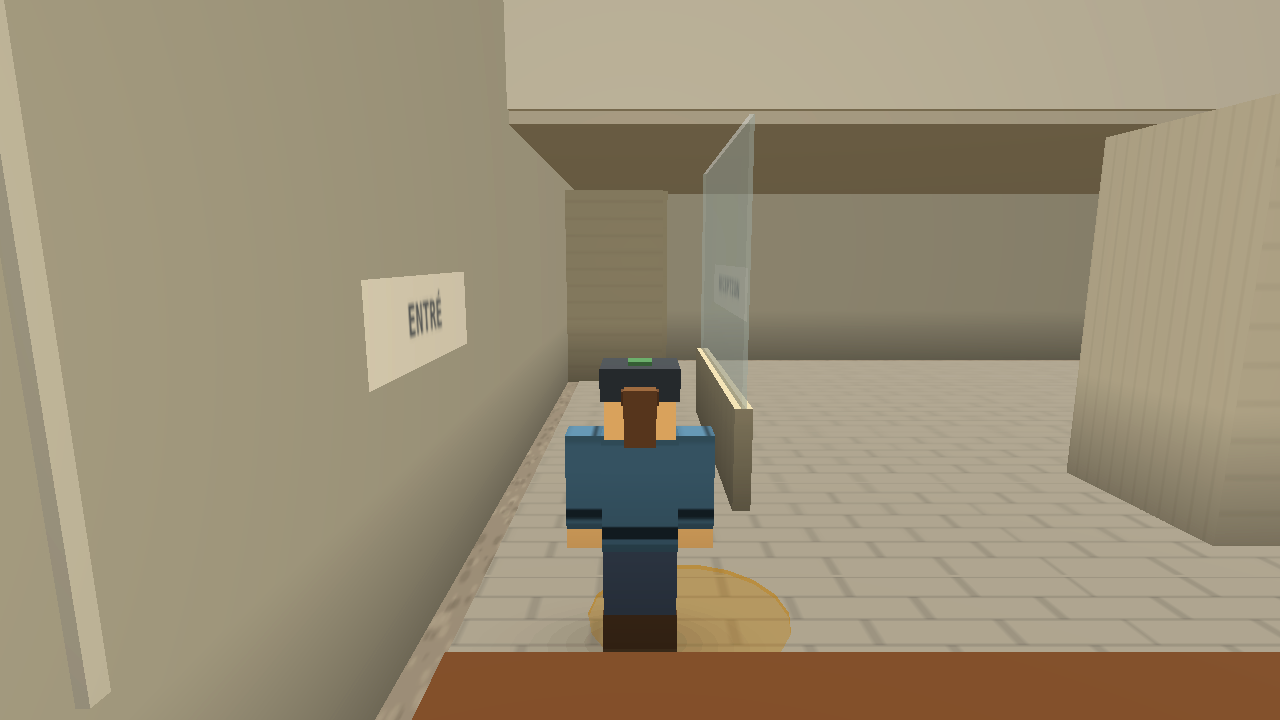
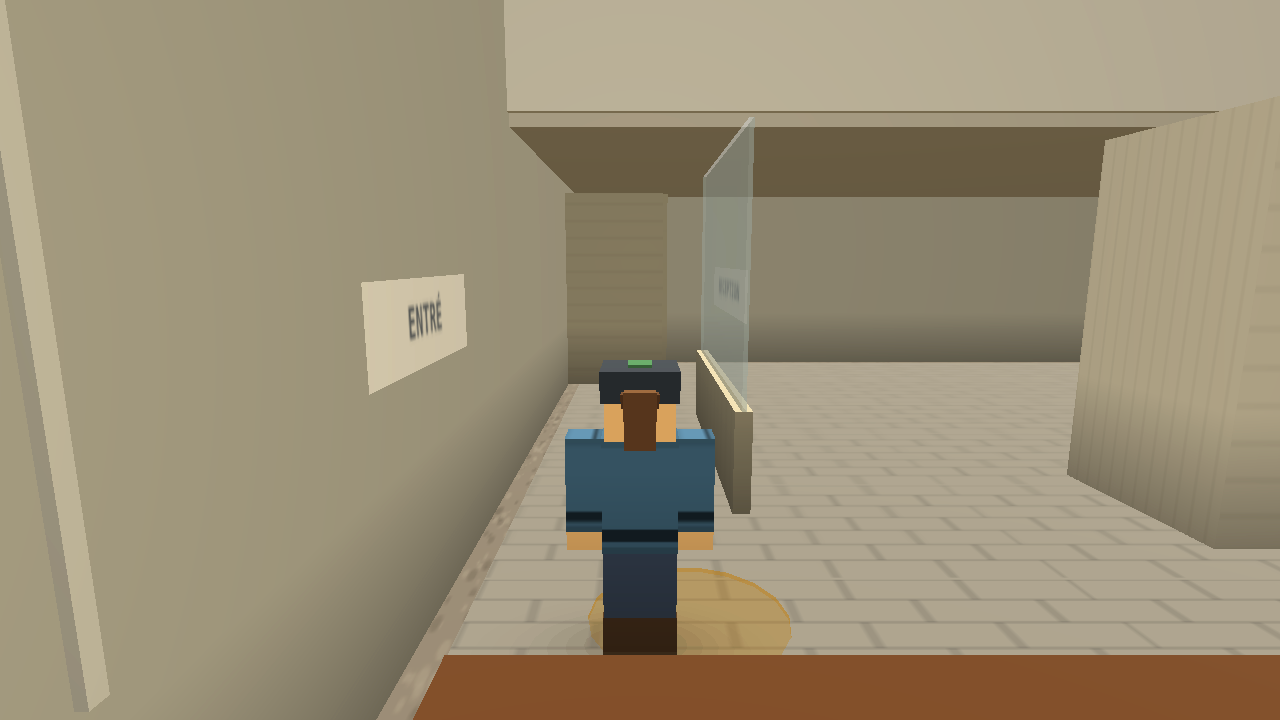
Visuell grind: incheckat reviewpaket renderat från 7a95f0a (med runda 4-verdikten)
Claude-Session: https://claude.ai/code/session_01RBDjv5xAUC4NuuvYQvQjGc

diff --git a/docs/visual-gate/pack/index.html b/docs/visual-gate/pack/index.html
@@ -1,7 +1,7 @@
-<!doctype html><meta charset="utf-8"><title>UBRF screenshot-pack 432ffcc</title>
+<!doctype html><meta charset="utf-8"><title>UBRF screenshot-pack 7a95f0a</title>
 <style>body{font:14px system-ui;margin:1.5rem;max-width:1400px}section{border-top:1px solid #ccc;padding:1rem 0}.par{display:grid;grid-template-columns:1fr 1fr;gap:1rem}img{max-width:100%;border:1px solid #999}figure{margin:0 0 .5rem}figcaption,.meta{font-size:12px;color:#444}table{margin-top:.5rem;border-collapse:collapse}th,td{text-align:left;padding:.2rem .6rem;vertical-align:top;border:1px solid #ddd}.gap{color:#a00}code{font-size:12px}</style>
 <h1>UBRF — Visual Fidelity Gate, screenshot-pack</h1>
-<p>Head <code>432ffcc5b1b7649d3f0d4a6e2e4f0d382128a910</code> · renderad 2026-09-04T06:46:40.500Z · 13 kameror · figuren dold i 0.</p>
+<p>Head <code>7a95f0a8cf15b2c17dcf3267739114f27423b205</code> · renderad 2026-09-04T06:58:49.822Z · 13 kameror · figuren dold i 0.</p>
 <p><b>Statuskedja:</b> IMPLEMENTED → AUTOMATED_GREEN → VISUAL_PACK_READY → CHATGPT_VISUAL_PASS → READY_FOR_PRODUCT_ACCEPTANCE → PRODUCT_ACCEPTED. Det här paketet är <b>VISUAL_PACK_READY</b> som mest. Ingen automation sätter en visuell status; grön CI är inte visual fidelity. Se docs/VISUAL-FIDELITY-GATE.md.</p>
 <nav><a href="#STALL-ANKOMST">STALL-ANKOMST</a> · <a href="#STALL-ENTRE">STALL-ENTRE</a> · <a href="#STALL-UPPEHALL">STALL-UPPEHALL</a> · <a href="#STALL-TEORISAL">STALL-TEORISAL</a> · <a href="#STALL-SADELKAMMARE">STALL-SADELKAMMARE</a> · <a href="#STALL-GANG-A">STALL-GANG-A</a> · <a href="#HASTPASSAGE">HASTPASSAGE</a> · <a href="#RIDHUS-ENTRE">RIDHUS-ENTRE</a> · <a href="#RIDHUS-SKAPKORRIDOR">RIDHUS-SKAPKORRIDOR</a> · <a href="#ARENA-A">ARENA-A</a> · <a href="#ARENA-C">ARENA-C</a> · <a href="#LAKTARE">LAKTARE</a> · <a href="#C-BLOCK-OVRE">C-BLOCK-OVRE</a></nav>
 <section id="STALL-ANKOMST">
@@ -9,12 +9,12 @@
 <p>Grusplanen norr om stallet, samma ansats som spelaren kommer från: blicken söderut mot klubbgaveln med förstukvisten och entrédörren</p>
 <div class="par">
   <div><h3>Referens</h3><figure class="txt"><figcaption>references/buildings/stall/stall-fasad-04.jpg</figcaption></figure><figure class="txt"><figcaption>references/buildings/stall/stall-entre-01.jpg</figcaption></figure><figure class="txt"><figcaption>references/buildings/stall/stall-entre-03.jpg</figcaption></figure><figure class="txt"><figcaption>references/buildings/stall/stall-entre-06.jpg</figcaption></figure><figure class="txt"><figcaption>references/buildings/stall/stall-entre-15-dorren.jpg</figcaption></figure><figure class="txt"><figcaption>references/buildings/stall/stall-entre-16-runda-fonstren.jpg</figcaption></figure></div>
-  <div><h3>Implementation @ <code>432ffcc</code></h3><img src="STALL-ANKOMST.png" alt="">
+  <div><h3>Implementation @ <code>7a95f0a</code></h3><img src="STALL-ANKOMST.png" alt="">
     <p class="meta">spelare [161.6,131,0] · kamera [160.1,1.7,132.5] · tonade väggar 0 · siktprov: <b>synlig</b></p></div>
 </div>
-<table><tr><th>Mismatch-status (ChatGPT)</th><td><b>EJ_GRANSKAD</b></td></tr>
+<table><tr><th>Mismatch-status (ChatGPT)</th><td><b>CHATGPT_VISUAL_PASS</b> på <code>588359194009f0722244830577d48a4201898f28</code> av ChatGPT senior visual review 2026-09-04 06:57 (runda 4)</td></tr>
 <tr><th>Ska synas (ramkontrakt)</th><td>Verandans sadeltak (röd gavelspets, vita vindskivor) på vita stolpar, det vita ribbräcket, den ockragula entrédörren med solfjäderfönster och vit karm rakt fram, ett runt fönster på var sida, lampan över dörren, spiraltrappan och balkongen till vänster. Det är den dörr interaktionen leder in genom (ankaret stall_entre_samma_dorr; innerpunkten ut_n vid samma dörr)</td></tr>
-<tr><th>Mismatch</th><td>—</td></tr>
+<tr><th>Mismatch</th><td>PASS: verandan med sadeltak, vita stolpar/ribbräcke, ockragul dörr, runda fönster, lampa, spiraltrappa/balkong läser som källserien; stall_entre_samma_dorr bevisar samma dörr inne/ute. Dörrdetaljernas förenkling är polish, inte grind.</td></tr>
 <tr><th>REFERENCE GAP</th><td>—</td></tr></table>
 </section>
 <section id="STALL-ENTRE">
@@ -22,12 +22,12 @@
 <p>Inne i uppehållsrummets östdel i ögonhöjd, blicken norrut mot den låsta fasadens entrédörr mitt på gaveln</p>
 <div class="par">
   <div><h3>Referens</h3><figure class="txt"><figcaption>references/buildings/stall/stall-entre-15-dorren.jpg</figcaption></figure><figure class="txt"><figcaption>references/buildings/stall/stall-entre-16-runda-fonstren.jpg</figcaption></figure></div>
-  <div><h3>Implementation @ <code>432ffcc</code></h3><img src="STALL-ENTRE.png" alt="">
+  <div><h3>Implementation @ <code>7a95f0a</code></h3><img src="STALL-ENTRE.png" alt="">
     <p class="meta">spelare [8.3,66.95,0] · kamera [10.1,1.7,64.55] · tonade väggar 1 · siktprov: <b>synlig</b></p></div>
 </div>
-<table><tr><th>Mismatch-status (ChatGPT)</th><td><b>MISMATCH</b> på <code>dd1902f3cc79d5aff8953af54a44d7ef2ff27e0a</code> av ChatGPT senior visual review 2026-09-04 06:33 (runda 3)</td></tr>
+<table><tr><th>Mismatch-status (ChatGPT)</th><td><b>CHATGPT_VISUAL_PASS</b> på <code>588359194009f0722244830577d48a4201898f28</code> av ChatGPT senior visual review 2026-09-04 06:57 (runda 4)</td></tr>
 <tr><th>Ska synas (ramkontrakt)</th><td>Gavelväggen med fasadens entrédörr (ockragul, solfjäderfönster, vit karm) rakt fram, det västra runda fönstret bredvid; öppen yta fram till gaveln. Det östra runda fönstret hamnar i teorisalen — dokumenterad motsägelse (planens vindfång x 3,6–5,5 mot fasadens entré x 10,5, DEFERRED BY EXTERIOR LOCK)</td></tr>
-<tr><th>Mismatch</th><td>Interiörvyn bevisar inte den exteriöra entrén Tobias rapporterade, och interaktionen ledde till en annan punkt än dörren i bild. Rättat: ut_n ligger nu i fasadens dörr (F02-A a102bb9), exteriörkameran STALL-ANKOMST tillagd, ankaret stall_entre_samma_dorr vaktar. Väntar på ny review.</td></tr>
+<tr><th>Mismatch</th><td>Entré-/interaktionsblockern STÄNGD för F02-A (06:57): innerpunkten ut_n och gårdens markör är samma låsta fasaddörr. 'Remaining door-detail simplification is polish, not a gate blocker.'</td></tr>
 <tr><th>REFERENCE GAP</th><td>ingen interiörbild av gavelns insida: dörrbladets färg inifrån [antagande]<br>planens vindfångscell (x 3,6–5,5) mot fasadens entré (x 10,5): dokumenterad motsägelse, fasaden vinner; cellen står kvar utan etikett</td></tr></table>
 </section>
 <section id="STALL-UPPEHALL">
@@ -35,12 +35,12 @@
 <p>Uppehållsrummet från södra änden (vid lobbyn) norrut genom hela rummet</p>
 <div class="par">
   <div><h3>Referens</h3><figure class="txt"><figcaption>references/buildings/stall/stall-inne-01-uppehallsrummet.jpg</figcaption></figure><figure class="txt"><figcaption>references/buildings/stall/stall-inne-02-pentryt.jpg</figcaption></figure></div>
-  <div><h3>Implementation @ <code>432ffcc</code></h3><img src="STALL-UPPEHALL.png" alt="">
+  <div><h3>Implementation @ <code>7a95f0a</code></h3><img src="STALL-UPPEHALL.png" alt="">
     <p class="meta">spelare [4,61.55,0] · kamera [4,2.25,58.22] · tonade väggar 0 · siktprov: <b>synlig</b></p></div>
 </div>
-<table><tr><th>Mismatch-status (ChatGPT)</th><td><b>MISMATCH</b> på <code>dd1902f3cc79d5aff8953af54a44d7ef2ff27e0a</code> av ChatGPT senior visual review 2026-09-04 06:33 (runda 3)</td></tr>
+<table><tr><th>Mismatch-status (ChatGPT)</th><td><b>MISMATCH</b> på <code>588359194009f0722244830577d48a4201898f28</code> av ChatGPT senior visual review 2026-09-04 06:57 (runda 4)</td></tr>
 <tr><th>Ska synas (ramkontrakt)</th><td>Rummets hela längd (10 m) i ögonhöjd: västväggen till vänster, öppningen mot östdelen (uppehallsrum_o) till höger utan vägg emellan, planens slutna symbolruta till höger, gaveln med entrén längst bort</td></tr>
-<tr><th>Mismatch</th><td>Förblir MISMATCH tills F02-B (#76) integrerats — möbler är utanför F02-A. Inget PASS fejkas här.</td></tr>
+<tr><th>Mismatch</th><td>Avsiktligt MISMATCH: rummets saknade visuella identitet är F02-B-möblering (#76), inte ett F02-A-topologifel. Inget PASS fejkas; #80 omprövar när #76 integrerats.</td></tr>
 <tr><th>REFERENCE GAP</th><td>möbler (F02-B) saknas ännu — inte ett fel i F02-A</td></tr></table>
 </section>
 <section id="STALL-TEORISAL">
@@ -48,7 +48,7 @@
 <p>Innanför teorisalens dörr (västväggen), blicken österut genom salen</p>
 <div class="par">
   <div><h3>Referens</h3><figure class="txt"><figcaption>references/buildings/stall/stall-inne-04-teorisalen.jpg</figcaption></figure></div>
-  <div><h3>Implementation @ <code>432ffcc</code></h3><img src="STALL-TEORISAL.png" alt="">
+  <div><h3>Implementation @ <code>7a95f0a</code></h3><img src="STALL-TEORISAL.png" alt="">
     <p class="meta">spelare [12.5,65.65,0] · kamera [9.17,2.25,65.65] · tonade väggar 0 · siktprov: <b>synlig</b></p></div>
 </div>
 <table><tr><th>Mismatch-status (ChatGPT)</th><td><b>EJ_GRANSKAD</b></td></tr>
@@ -61,7 +61,7 @@
 <p>Inne i sadelkammaren, blicken österut genom rummet mot östväggen (x 15,5)</p>
 <div class="par">
   <div><h3>Referens</h3><figure class="txt"><figcaption>references/buildings/stall/stall-inne-03-sadelkammaren.jpg</figcaption></figure></div>
-  <div><h3>Implementation @ <code>432ffcc</code></h3><img src="STALL-SADELKAMMARE.png" alt="">
+  <div><h3>Implementation @ <code>7a95f0a</code></h3><img src="STALL-SADELKAMMARE.png" alt="">
     <p class="meta">spelare [11.5,61.28,0] · kamera [8.17,2.25,61.28] · tonade väggar 0 · siktprov: <b>synlig</b></p></div>
 </div>
 <table><tr><th>Mismatch-status (ChatGPT)</th><td><b>EJ_GRANSKAD</b></td></tr>
@@ -74,7 +74,7 @@
 <p>I gång A, blicken norrut mot klubbdelen — boxfronter på båda sidor</p>
 <div class="par">
   <div><h3>Referens</h3><figure class="txt"><figcaption>references/buildings/stall/stall-inne-05-stallgangen.jpg</figcaption></figure><figure class="txt"><figcaption>references/buildings/stall/stall-inne-08-breda-gangen.jpg</figcaption></figure></div>
-  <div><h3>Implementation @ <code>432ffcc</code></h3><img src="STALL-GANG-A.png" alt="">
+  <div><h3>Implementation @ <code>7a95f0a</code></h3><img src="STALL-GANG-A.png" alt="">
     <p class="meta">spelare [5.69,12.8,0] · kamera [5.69,2.25,9.47] · tonade väggar 0 · siktprov: <b>synlig</b></p></div>
 </div>
 <table><tr><th>Mismatch-status (ChatGPT)</th><td><b>EJ_GRANSKAD</b></td></tr>
@@ -87,7 +87,7 @@
 <p>Från gång A:s östra kant i ögonhöjd, blicken västerut genom brottet i västra boxraden in i hästgången mot ridhuset</p>
 <div class="par">
   <div><h3>Referens</h3><figure class="txt"><figcaption>references/plans/SATELLIT-HASTGANG-2026-08-30.md</figcaption></figure></div>
-  <div><h3>Implementation @ <code>432ffcc</code></h3><img src="HASTPASSAGE.png" alt="">
+  <div><h3>Implementation @ <code>7a95f0a</code></h3><img src="HASTPASSAGE.png" alt="">
     <p class="meta">spelare [4.99,29.55,0] · kamera [6.79,1.7,30.45] · tonade väggar 0 · siktprov: <b>synlig</b></p></div>
 </div>
 <table><tr><th>Mismatch-status (ChatGPT)</th><td><b>EJ_GRANSKAD</b></td></tr>
@@ -100,7 +100,7 @@
 <p>Huvudentrén → norrut över entré/reception: öppen hall, receptionens glas till höger (= golden view RIDHUS-V1)</p>
 <div class="par">
   <div><h3>Referens</h3><figure class="txt"><figcaption>references/buildings/ridhus/ridhus-klubb-01-omkladningsgangen.jpg</figcaption></figure><figure class="txt"><figcaption>references/buildings/ridhus/ridhus-klubb-15-korridoren-mot-glasrummen.jpg</figcaption></figure><figure class="txt"><figcaption>references/buildings/ridhus/ridhus-klubb-02-glasrummen.jpg</figcaption></figure></div>
-  <div><h3>Implementation @ <code>432ffcc</code></h3><img src="RIDHUS-ENTRE.png" alt="">
+  <div><h3>Implementation @ <code>7a95f0a</code></h3><img src="RIDHUS-ENTRE.png" alt="">
     <p class="meta">spelare [1.3,66.98,0] · kamera [1.3,2.25,63.65] · tonade väggar 0 · siktprov: <b>synlig</b></p></div>
 </div>
 <table><tr><th>Mismatch-status (ChatGPT)</th><td><b>EJ_GRANSKAD</b></td></tr>
@@ -113,7 +113,7 @@
 <p>Den öppna gången där skåpen står (planens x 4,2–5,7), blicken norrut mot toaletterna</p>
 <div class="par">
   <div><h3>Referens</h3><figure class="txt"><figcaption>references/buildings/ridhus/ridhus-klubb-16-skaprummet-med-pelaren.jpg</figcaption></figure><figure class="txt"><figcaption>references/buildings/ridhus/ridhus-klubb-18-skapraden-narbild.jpg</figcaption></figure><figure class="txt"><figcaption>references/buildings/ridhus/ridhus-klubb-20-grona-skapen.jpg</figcaption></figure><figure class="txt"><figcaption>references/buildings/ridhus/ridhus-klubb-21-grona-skapen-vinkel.jpg</figcaption></figure></div>
-  <div><h3>Implementation @ <code>432ffcc</code></h3><img src="RIDHUS-SKAPKORRIDOR.png" alt="">
+  <div><h3>Implementation @ <code>7a95f0a</code></h3><img src="RIDHUS-SKAPKORRIDOR.png" alt="">
     <p class="meta">spelare [4.95,67.98,0] · kamera [4.95,2.25,64.65] · tonade väggar 0 · siktprov: <b>synlig</b></p></div>
 </div>
 <table><tr><th>Mismatch-status (ChatGPT)</th><td><b>EJ_GRANSKAD</b></td></tr>
@@ -126,7 +126,7 @@
 <p>På banan nära A, blicken söderut mot kortsidan vid A</p>
 <div class="par">
   <div><h3>Referens</h3><figure class="txt"><figcaption>references/buildings/ridhus/ridhus-inne-23-kortsidan-vid-a.jpg</figcaption></figure><figure class="txt"><figcaption>references/buildings/ridhus/ridhus-inne-11-ridbanan.jpg</figcaption></figure></div>
-  <div><h3>Implementation @ <code>432ffcc</code></h3><img src="ARENA-A.png" alt="">
+  <div><h3>Implementation @ <code>7a95f0a</code></h3><img src="ARENA-A.png" alt="">
     <p class="meta">spelare [14.4,6.15,0] · kamera [14.4,2.25,9.48] · tonade väggar 0 · siktprov: <b>synlig</b></p></div>
 </div>
 <table><tr><th>Mismatch-status (ChatGPT)</th><td><b>EJ_GRANSKAD</b></td></tr>
@@ -139,12 +139,12 @@
 <p>På banan nära C, blicken norrut mot C-blocket, glasbandet och trapporna</p>
 <div class="par">
   <div><h3>Referens</h3><figure class="txt"><figcaption>references/buildings/ridhus/ridhus-inne-01-glasrummen.jpg</figcaption></figure><figure class="txt"><figcaption>references/buildings/ridhus/ridhus-inne-06-laktaren-och-glasrummet.jpg</figcaption></figure><figure class="txt"><figcaption>references/buildings/ridhus/ridhus-inne-27-glasrummet-inifran-banan.jpg</figcaption></figure></div>
-  <div><h3>Implementation @ <code>432ffcc</code></h3><img src="ARENA-C.png" alt="">
+  <div><h3>Implementation @ <code>7a95f0a</code></h3><img src="ARENA-C.png" alt="">
     <p class="meta">spelare [14.4,57.68,0] · kamera [14.4,2.25,54.35] · tonade väggar 0 · siktprov: <b>synlig</b></p></div>
 </div>
-<table><tr><th>Mismatch-status (ChatGPT)</th><td><b>MISMATCH</b> på <code>dd1902f3cc79d5aff8953af54a44d7ef2ff27e0a</code> av ChatGPT senior visual review 2026-09-04 06:33 (runda 3)</td></tr>
+<table><tr><th>Mismatch-status (ChatGPT)</th><td><b>CHATGPT_VISUAL_PASS</b> på <code>588359194009f0722244830577d48a4201898f28</code> av ChatGPT senior visual review 2026-09-04 06:57 (runda 4)</td></tr>
 <tr><th>Ska synas (ramkontrakt)</th><td>C-blocket över norra sargen: bänkraderna, klockväggen mellan de två loppen, vita sidostycken, glasbandet i tre fält, övre gången bakom</td></tr>
-<tr><th>Mismatch</th><td>Sidostyckena lästes som två jättelika lutande skivor (bow-tie) som slukade glasbandet. Rättat i F02-A (a102bb9): trapets med vågrät underkant i blockets krön och överkant längs räcket; klockväggen fri; glasbandet synligt. Väntar på ny review.</td></tr>
+<tr><th>Mismatch</th><td>PASS: sidostyckena läser som trappkantsväggar, räckena läsbara, klockväggen fri, glasbandet synligt. Topologin får inte öppnas igen.</td></tr>
 <tr><th>REFERENCE GAP</th><td>Café Krubbans rum bakom glaset byggs inte (REFERENCE GAP)</td></tr></table>
 </section>
 <section id="LAKTARE">
@@ -152,7 +152,7 @@
 <p>På läktardäcket, blicken söderut längs läktaren med banan till vänster</p>
 <div class="par">
   <div><h3>Referens</h3><figure class="txt"><figcaption>references/buildings/ridhus/ridhus-inne-14-laktaren.jpg</figcaption></figure><figure class="txt"><figcaption>references/buildings/ridhus/ridhus-inne-41-banan-fran-laktaren.jpg</figcaption></figure><figure class="txt"><figcaption>references/buildings/ridhus/ridhus-inne-40-domartornet-pa-laktaren.jpg</figcaption></figure><figure class="txt"><figcaption>references/buildings/ridhus/ridhus-inne-43-laktaren-vid-h.jpg</figcaption></figure></div>
-  <div><h3>Implementation @ <code>432ffcc</code></h3><img src="LAKTARE.png" alt="">
+  <div><h3>Implementation @ <code>7a95f0a</code></h3><img src="LAKTARE.png" alt="">
     <p class="meta">spelare [2.3,38.92,0.8] · kamera [2.3,3.05,42.24] · tonade väggar 0 · siktprov: <b>synlig</b></p></div>
 </div>
 <table><tr><th>Mismatch-status (ChatGPT)</th><td><b>EJ_GRANSKAD</b></td></tr>
@@ -165,11 +165,11 @@
 <p>Från nedersta bänkraden vid klockan (som ridhus-inne-01): raderna, de två loppen, klockväggen, glasbandet och övre gången</p>
 <div class="par">
   <div><h3>Referens</h3><figure class="txt"><figcaption>references/buildings/ridhus/ridhus-inne-01-glasrummen.jpg</figcaption></figure><figure class="txt"><figcaption>references/buildings/ridhus/ridhus-inne-07-laktartrappstegen.jpg</figcaption></figure><figure class="txt"><figcaption>references/buildings/ridhus/ridhus-klubb-10-overvaningens-gang.jpg</figcaption></figure><figure class="txt"><figcaption>references/buildings/ridhus/granskning-2026-08-31/C-kortandan-och-kafeet.md</figcaption></figure></div>
-  <div><h3>Implementation @ <code>432ffcc</code></h3><img src="C-BLOCK-OVRE.png" alt="">
+  <div><h3>Implementation @ <code>7a95f0a</code></h3><img src="C-BLOCK-OVRE.png" alt="">
     <p class="meta">spelare [15.8,66.28,1.12] · kamera [15.8,3.37,62.95] · tonade väggar 0 · siktprov: <b>synlig</b></p></div>
 </div>
-<table><tr><th>Mismatch-status (ChatGPT)</th><td><b>MISMATCH</b> på <code>dd1902f3cc79d5aff8953af54a44d7ef2ff27e0a</code> av ChatGPT senior visual review 2026-09-04 06:33 (runda 3)</td></tr>
+<table><tr><th>Mismatch-status (ChatGPT)</th><td><b>CHATGPT_VISUAL_PASS</b> på <code>588359194009f0722244830577d48a4201898f28</code> av ChatGPT senior visual review 2026-09-04 06:57 (runda 4)</td></tr>
 <tr><th>Ska synas (ramkontrakt)</th><td>Från nedersta raden: raderna uppåt, båda loppen stigande utåt från klockväggen, räcken, glasbandet ovanför, övre gångens golv/räcke; spelets bänkradssteg (gul markör) till vänster som SPELABSTRAKTION</td></tr>
-<tr><th>Mismatch</th><td>Samma som ARENA-C (bow-tie). Rättat i F02-A (a102bb9): trapetsformade sidostycken, mörkt räcke ovanpå kanten, klockväggen fri. Väntar på ny review.</td></tr>
+<tr><th>Mismatch</th><td>PASS (samma bedömning som ARENA-C på a102bb9:s trapetsform).</td></tr>
 <tr><th>REFERENCE GAP</th><td>hall → nedersta raden: inget foto (spelets bänkradssteg är SPELABSTRAKTION, gul markör)<br>övre gångens bredd [uppskattning]</td></tr></table>
 </section>
